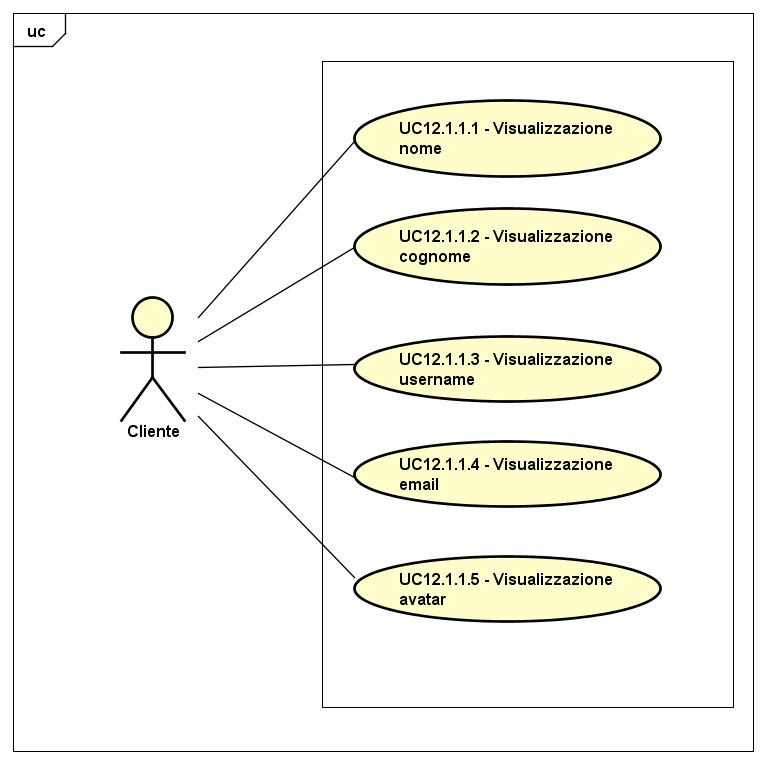
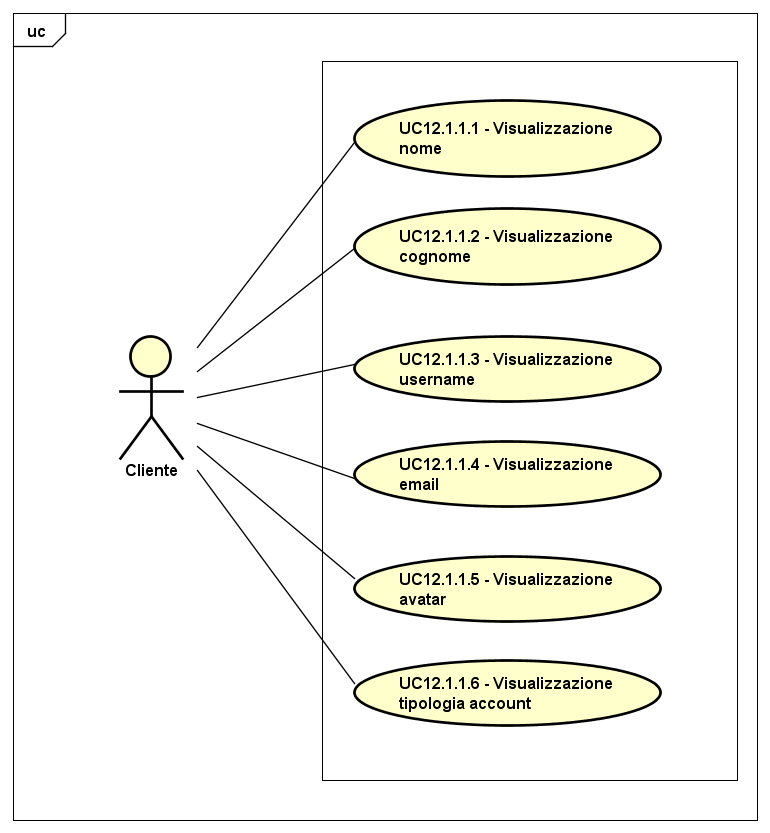
Aggiunti verbali 2/3 marzo + correzioni adr
I verbali sono ancora nelal forma vecchia, poi li guardo tutto assieme
per inserire i ruoli di ciascuno.
Correzioni AdR di google keep.
Altre brevi punti di google keep.

diff --git a/Docs/RP/Analisi dei requisiti/includes/UseCase/UC12.tex b/Docs/RP/Analisi dei requisiti/includes/UseCase/UC12.tex
@@ -78,6 +78,7 @@
 		\item L'attore può visualizzare il proprio username (UC12.1.1.3)
 		\item L'attore può visualizzare la propria email (UC12.1.1.4)
 		\item L'attore può visualizzare il proprio avatar (UC12.1.1.5)
+		\item L'attore può visualizzare la tipologia del proprio account (UC12.1.1.6)
 	\end{enumerate*}\\
 \end{tabular}
 \end{minipage}
@@ -178,6 +179,26 @@
 		\textbf{Scenario Principale} & 
 		\begin{enumerate*}[label=(\arabic*.),itemjoin={\newline}]
 			\item L'attore può visualizzare il proprio avatar
+		\end{enumerate*}
+	\end{tabular}
+\end{minipage}
+
+\subparagraph{Caso d'uso UC12.1.1.6: Visualizzazione tipologia account}
+\label{UC12_1_1_6}
+
+\begin{minipage}{\linewidth}
+	\begin{tabular}{ l | p{11cm}}
+		\hline
+		\rowcolor{Gray}
+		\multicolumn{2}{c}{UC12.1.1.6 - Visualizzazione tipologia account} \\
+		\hline
+		\textbf{Attori} & Cliente \\
+		\textbf{Descrizione} & L'attore visualizzare la tipologia del proprio account \\
+		\textbf{Pre-Condizioni} & L'attore si trova nella schermata relativa alla gestione delle informazioni personali \\
+		\textbf{Post-Condizioni} & L'attore ha visualizzato la tipologia del proprio account \\
+		\textbf{Scenario Principale} & 
+		\begin{enumerate*}[label=(\arabic*.),itemjoin={\newline}]
+			\item L'attore può visualizzare la tipologia del proprio account
 		\end{enumerate*}
 	\end{tabular}
 \end{minipage}

diff --git a/Docs/RP/Verbali/v2017-03-02/2017-03-02.tex b/Docs/RP/Verbali/v2017-03-02/2017-03-02.tex
@@ -1,0 +1,36 @@
+% Sostituisco i placeholder registrati con la specifica variabile per il documento corrente. Questa parte iniziale contiene intestazioni e templates.
+
+% Modificare ad ogni modifica e documento
+\newcommand{\documento}{\VE}
+\newcommand{\nomedocumentofisico}{Verbale 11 - 02 marzo 2017.pdf}
+\newcommand{\redazione}{\MC}
+\newcommand{\verifica}{}
+\newcommand{\versione}{}
+\newcommand{\approvazione}{\NS}
+\newcommand{\uso}{Interno}
+\newcommand{\destinateTo}{\TV, \\ & \RC, \\ & \gruppo}
+\newcommand{\datacreazione}{03 marzo 2017}
+\newcommand{\datamodifica}{03 marzo 2017}
+\newcommand{\stato}{Approvato}
+
+%Abilitazione indice delle tabelle e figure
+\def\TABELLE{false}
+\def\FIGURE{false}
+
+%Inclusione di layout e variabili (Non modificare)
+\input{../../template/layoutDocumento.tex}
+\input{../../template/comandiVeloci.tex}
+
+
+%Imposto la profondità degli indici
+\setcounter{secnumdepth}{7}
+\setcounter{tocdepth}{7}
+
+\begin{document}
+
+%Inclusione del template per la homepage (Non modificare)
+\input{../../template/homepage.tex}
+
+\input{riassunto.tex}
+
+\end{document}

diff --git a/Docs/RP/Verbali/v2017-03-03/2017-03-03.tex b/Docs/RP/Verbali/v2017-03-03/2017-03-03.tex
@@ -1,0 +1,36 @@
+% Sostituisco i placeholder registrati con la specifica variabile per il documento corrente. Questa parte iniziale contiene intestazioni e templates.
+
+% Modificare ad ogni modifica e documento
+\newcommand{\documento}{\VE}
+\newcommand{\nomedocumentofisico}{Verbale 12 - 03 marzo 2017.pdf}
+\newcommand{\redazione}{\MC}
+\newcommand{\verifica}{}
+\newcommand{\versione}{}
+\newcommand{\approvazione}{\NS}
+\newcommand{\uso}{Interno}
+\newcommand{\destinateTo}{\TV, \\ & \RC, \\ & \gruppo}
+\newcommand{\datacreazione}{03 marzo 2017}
+\newcommand{\datamodifica}{03 marzo 2017}
+\newcommand{\stato}{Approvato}
+
+%Abilitazione indice delle tabelle e figure
+\def\TABELLE{false}
+\def\FIGURE{false}
+
+%Inclusione di layout e variabili (Non modificare)
+\input{../../template/layoutDocumento.tex}
+\input{../../template/comandiVeloci.tex}
+
+
+%Imposto la profondità degli indici
+\setcounter{secnumdepth}{7}
+\setcounter{tocdepth}{7}
+
+\begin{document}
+
+%Inclusione del template per la homepage (Non modificare)
+\input{../../template/homepage.tex}
+
+\input{riassunto.tex}
+
+\end{document}

diff --git a/Docs/RP/Verbali/v2017-03-03/riassunto.tex b/Docs/RP/Verbali/v2017-03-03/riassunto.tex
@@ -1,0 +1,16 @@
+\section{Introduzione}
+
+	\begin{itemize}
+		\item Redatto da: \MC;
+		\item Approvato da: \AS;
+		\item Luogo: LabP036;
+		\item Data: 03 marzo 2017;
+		\item Ora inizio: 9.45;
+		\item Ora fine: 16.10;
+		\item Presenti: \AN, \AS, \DS, \MC, \NS;	
+	\end{itemize}
+
+\section{Riassunto}
+In questa riunione .
+
+Questo documento contiene il riassunto della riunione per la stesura definitiva dei diagrammi di package e classe sia della parte di front-end che di back-end di \progetto. I diagrammi di package del front-end della riunione precedente sono stati finalizzati, come anche quelli del back-end sono stati creati e finalizzati. Sono stati anche decise le modalità di rappresentazione dei microservizi in UML e dei diagrammi sia UML che non necessari a descrivere al meglio l'architettura di \progetto. Partendo dai diagrammi di package e dall'analisi dei requisiti, sono stati creati i diagrammi delle classi, il cui perfezionamento è stato assegnato ad alcuni membri del team.

diff --git a/Docs/RP/Verbali/v2017-03-02/riassunto.tex b/Docs/RP/Verbali/v2017-03-02/riassunto.tex
@@ -1,0 +1,14 @@
+\section{Introduzione}
+
+	\begin{itemize}
+		\item Redatto da: \MC;
+		\item Approvato da: \AS;
+		\item Luogo: LabP036;
+		\item Data: 02 marzo 2017;
+		\item Ora inizio: 10.00;
+		\item Ora fine: 15.00;
+		\item Presenti: \AN, \AS, \DAN, \DS, \MC, \NS;	
+	\end{itemize}
+
+\section{Riassunto}
+In questa riunione sono stati creati di comune accordo dei diagrammi di package del back-end, analizzando nel dettaglio la parte di API Gateway ed i suoi rapporti con gli altri componenti dell'applicazione web. Inoltre, sono state studiate e discusse le tecnologie Angular.js e Meteor, che saranno utilizzate nel front-end, ed in particolare l'implementazione del design pattern MVVM in un back-end con architettura a microservizi. La conclusione è stata di porre View e ViewModel nel package di front-end, mentre il Model in quello di back-end.

diff --git a/Docs/RP/Analisi dei requisiti/includes/UseCase/UC14.tex b/Docs/RP/Analisi dei requisiti/includes/UseCase/UC14.tex
@@ -675,9 +675,9 @@
 		\multicolumn{2}{c}{UC14.2.1.5 - Cancellazione utente} \\
 		\hline
 		\textbf{Attori} & Amministratore API Market \\
-		\textbf{Descrizione} & L'attore cancella l'utente scelto \\
+		\textbf{Descrizione} & L'attore imposta lo status dell'utente scelto come cancellato \\
 		\textbf{Pre-Condizioni} & L'attore si trova nella schermata relativa alla moderazione dell'utenza ed ha scelto un utente \\
-		\textbf{Post-Condizioni} & L'attore ha cancellato l'utente scelto \\
+		\textbf{Post-Condizioni} & L'attore ha impostato lo status dell'utente scelto come cancellato \\
 		\textbf{Scenario Principale} & 
 		\begin{enumerate*}[label=(\arabic*.),itemjoin={\newline}]
 			\item L'attore può confermare la cancellazione dell'utente scelto (UC14.2.1.5.1)

diff --git a/Docs/RP/Analisi dei requisiti/includes/tabellaRequisiti/reqqualita.tex b/Docs/RP/Analisi dei requisiti/includes/tabellaRequisiti/reqqualita.tex
@@ -33,7 +33,10 @@
 \hypertarget{RQO7}{RQO7} & Il prodotto finale deve essere depositato su una repository git &\makecell*{Capitolato} \\
 \hline
 
-\hypertarget{RQO8}{RQO8} & Deve essere stilato breve report tecnico che evidenzi gli aspetti positivi e negativi di un'architettura a microservizi  &\makecell*{Capitolato} \\
+\hypertarget{RQO8}{RQO8} & Deve essere stilato breve report tecnico che evidenzi gli aspetti positivi e negativi di un'architettura a microservizi &\makecell*{Capitolato} \\
+\hline
+
+\hypertarget{RQD9}{RQD9} & Deve essere redatto un manuale per l'installazione e l'avvio dell'applicazione web &\makecell*{Capitolato} \\
 \hline
 
 \end{longtable}

diff --git a/Docs/RP/Analisi dei requisiti/includes/tabellaRequisiti/reqprestazionali.tex b/Docs/RP/Analisi dei requisiti/includes/tabellaRequisiti/reqprestazionali.tex
@@ -12,12 +12,7 @@
 \hline
 \endlastfoot
 
-\hypertarget{RPD1}{RPD1} & Il sistema deve poter gestire un elevato numero di richieste fatte in un intervallo di tempo breve & \makecell*{Interno} \\
+\hypertarget{RPD1}{RPD1} & PER ORA NON ABBIAMO REQUISITI PRESTAZIONALI & \makecell*{Interno} \\
 \hline
-
-\hypertarget{RPD2}{RPD2} & Il sistema deve reagire agli eventi a cui e' soggetto in maniera veloce & \makecell*{Interno} \\
-\hline
-
-
 
 \end{longtable}

diff --git a/Docs/RP/Verbali/v2017-03-03/abstract.tex b/Docs/RP/Verbali/v2017-03-03/abstract.tex
@@ -1,0 +1,1 @@
+Questo documento contiene il riassunto della riunione per la progettazione della parte di front-end di \progetto. Inoltre sono stati perfezionati e conclusi tutti diagrammi di package sia di front-end che di back-end. Oltre a questo, sono stati creati i diagrammi delle classi ed alcuni altri diagrammi riguardando l'architettura di \progetto.

diff --git a/Docs/RP/Verbali/v2017-03-02/abstract.tex b/Docs/RP/Verbali/v2017-03-02/abstract.tex
@@ -1,0 +1,1 @@
+Questo documento contiene il riassunto della riunione per la progettazione della parte di back-end di \progetto, discutendone molto più in dettaglio, analizzandone in particolare la componente API Gateway. Si è parlato anche delle tecnologie per il front-end, Angular.js e Meteor, e del loro pattern architetturale, cioè MVVM.
